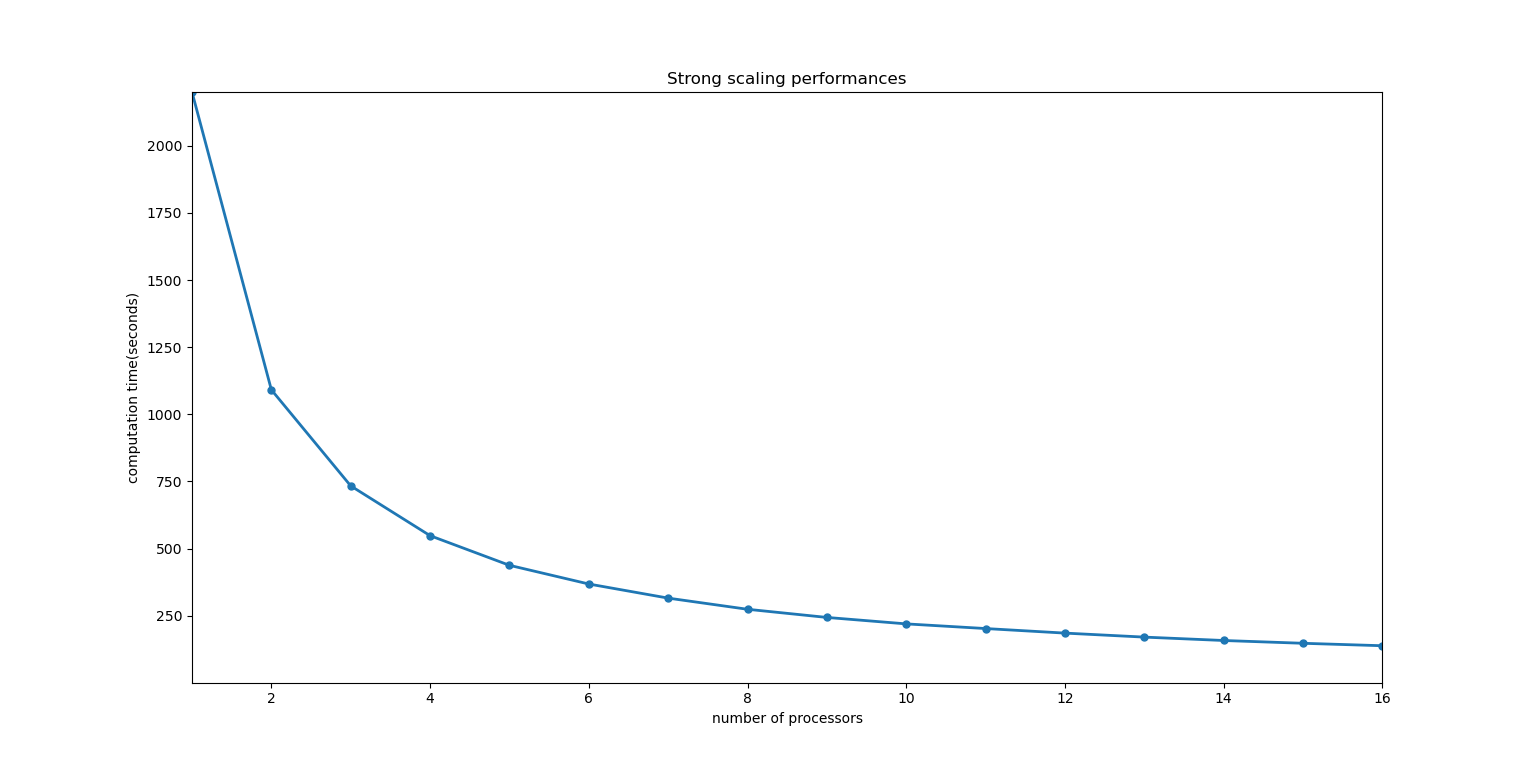
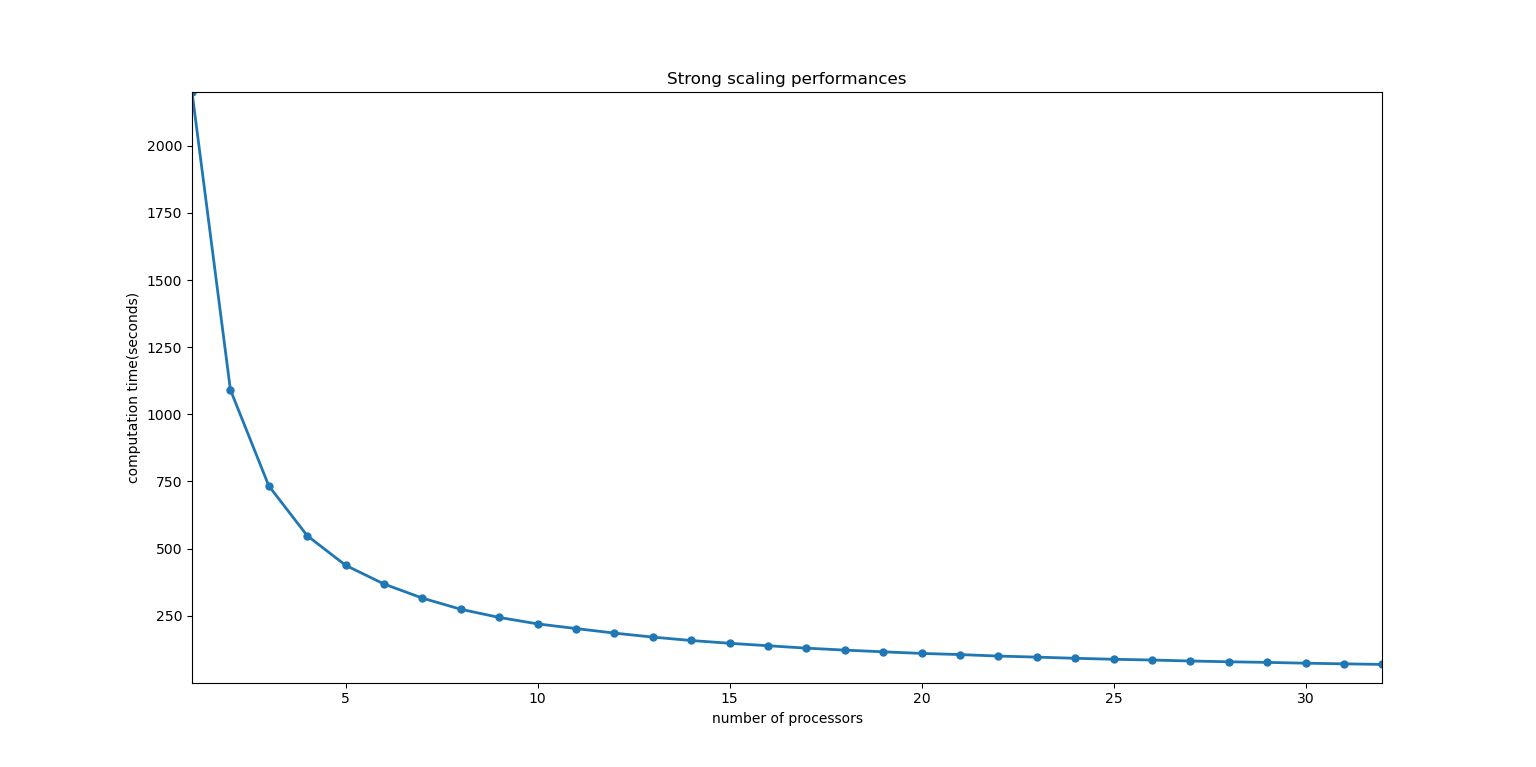
updating performances up to 32 processors

diff --git a/README.md b/README.md
@@ -206,9 +206,13 @@ Possiamo ora procedere con la descrizione dei risultati dati dalla misurazione d
 
 ### Strong Scaling
 
-In questo tipo di misurazione la taglia del problema (il numero di particelle) resta fissata ma il numero di processori aumenta (da 1 a number-of-vcp x number-of-instances). 
+In questo tipo di misurazione la taglia del problema (il numero di particelle) resta fissata ma il numero di processori aumenta. 
 
-**Quindi usando un'istanza EC2 di AWS di tipo *t2.large* che possiede 2 vCPU il cluster su cui verrà effettuato il benchmarking sarà formato da 8 istanze ognuna avente 2 vCPU quindi i processori possono aumentare da 1 a 16.**
+![](./benchmarking_screenshots/instances_32.png)
+
+**Per il testi di strong scaling il range di aumento del numero dei processori è stato fissato da 1 a 32 poichè 32 è il massimo numero di core che è possibile usare con un account AWS Educate**
+
+![](./benchmarking_screenshots/cpu_32_limit.png)
 
 |   P	|   N	|   Avg Iteration Time (seconds)	|   Total Computation Time (seconds)	|
 |:-:	|:-:	|:-:	|:-:	|
@@ -228,10 +232,26 @@ In questo tipo di misurazione la taglia del problema (il numero di particelle) r
 |   14	|  100 000 	|   15.787466	|   157.874664 	|
 |   15	|  100 000 	|   14.750758	|   147.507577 	|
 |   16	|  100 000 	|   13.837183	|   138.371826 	|
+|   17	|  100 000 	|   12.937212	|   129.372124	|
+|   18	|  100 000 	|   12.210964	|   122.109644 	|
+|   19	|  100 000 	|   11.575181	|   115.751814  |
+|   20	|  100 000 	|   10.975263	|   109.752627 	|
+|   21	|  100 000 	|   10.547308	|   105.473079  |
+|   22	|  100 000 	|   9.991014	|   99.910142   |
+|   23	|  100 000 	|   9.599492	|   95.994917   |
+|   24	|  100 000 	|   9.162451	|   91.624507   |
+|   25	|  100 000 	|   8.797949	|   87.979485   |
+|   26	|  100 000 	|   8.514978	|   85.149779   |
+|   27	|  100 000 	|   8.152149	|   81.521492   |
+|   28	|  100 000 	|   7.863964	|   78.639643   |
+|   29	|  100 000 	|   7.639826	|   76.398257   |
+|   30	|  100 000 	|   7.336128	|   73.361283   |
+|   31	|  100 000 	|   7.095153	|   70.951534   |
+|   32	|  100 000 	|   6.880448	|   68.804478   |
 
 ![](./benchmarking_screenshots/strong_scaling_screenshots/strong_scaling_graph.png)
 
-Dalle misurazioni effettuate per verificare la **strong scalability** abbiamo notato come su una stessa taglia di input, l'aggiunta di processori ha migliorato il tempo di esecuzione, ma ovviamente per ogni processore aggiunto il miglioramento non è stato costante poichè più processori partecipavano alla computazione, maggiore era l'overhead prodotto dalla comunicazione di questi. Nel nostro test fino a 16 processori il tempo di esecuzione è sempre diminuito ma abbiamo cominciato ad intravedere un punto di stop al miglioramento verso la fine, infatti con il passaggio da 15 a 16 processori il tempo di computazione è stato ridotto minimamente. Se fossimo andati avanti, aggiungendo altri processori saremmo arrivati ad un punto in cui il tempo di esecuzione non diminuiva più, ma cominciava ad aumentare poichè l'overhead prodotto era maggiore del miglioramento di prestazioni.
+Dalle misurazioni effettuate per verificare la **strong scalability** abbiamo notato come su una stessa taglia di input, l'aggiunta di processori ha migliorato il tempo di esecuzione, ma ovviamente per ogni processore aggiunto il miglioramento non è stato costante poichè più processori partecipavano alla computazione, maggiore era l'overhead prodotto dalla comunicazione di questi. Nel nostro test fino a 32 processori il tempo di esecuzione è sempre diminuito ma più il numero di processori aumentava più il miglioramento delle prestazioni diminuiva. Se fossimo andati avanti, aggiungendo altri processori saremmo arrivati ad un punto in cui il tempo di esecuzione non diminuiva più, ma cominciava ad aumentare poichè l'overhead prodotto era maggiore del miglioramento di prestazioni.
 
 ### Weak Scaling
 
@@ -279,7 +299,7 @@ dove :
 |:-:	|:-:	|:-:	|
 |   1	|  100 000	|  1.0 |
 |   2	|  100 000 	|  2.0 |
-|   3	|  100 000	|  3.0	|
+|   3	|  100 000	|  3.0 |
 |   4	|  100 000 	|  4.0 |
 |   5	|  100 000 	|  5.0 |
 |   6	|  100 000 	|  5.9 |
@@ -289,19 +309,37 @@ dove :
 |   10	|  100 000 	|  10.0 |
 |   11	|  100 000 	|  10.9 |
 |   12	|  100 000 	|  11.9 |
-|   13	|  100 000 	|  12.8 |
-|   14	|  100 000 	|  13.8 |
-|   15	|  100 000 	|  14.8 |
-|   16	|  100 000 	|  15.8 |
+|   13	|  100 000 	|  12.9 |
+|   14	|  100 000 	|  13.9 |
+|   15	|  100 000 	|  14.9 |
+|   16	|  100 000 	|  15.9 |
+|   17	|  100 000 	|  17.0 |
+|   18	|  100 000 	|  18.0 |
+|   19	|  100 000 	|  19.0 |
+|   20	|  100 000 	|  20.0 |
+|   21	|  100 000 	|  20.9 |
+|   22	|  100 000 	|  22.0 |
+|   23	|  100 000 	|  22.9 |
+|   24	|  100 000 	|  24.0 |
+|   25	|  100 000 	|  25.0 |
+|   26	|  100 000 	|  25.8 |
+|   27	|  100 000 	|  27.0 |
+|   28	|  100 000 	|  28.0 |
+|   29	|  100 000 	|  28.8 |
+|   30	|  100 000 	|  30.0 |
+|   31	|  100 000 	|  31.0 |
+|   32	|  100 000 	|  32.0 |
 
-![](./benchmarking_screenshots/speedup.png)
+![](./benchmarking_screenshots/speedup_32.png)
 
 Abbiamo notato come, sorprendentemente, lo **speedup** è sempre stato molto vicino all'ideale (speedup lineare), questo perchè lo speedup è calcolato in funzione di quante operazioni riusciamo ad eseguire in parallelo e non dal numero di processori coinvolti nel calcolo. Nel nostro caso abbiamo avuto ottimi risultati poichè, tranne per alcune istruzioni in più eseguite dal processore MASTER, tutte le istruzione del programma sono state eseguite in parallelo.
+
+Inoltre la comunicazione tra i processori è effettuata interamente utilizzando funzioni di comunicazione collettiva della libreria MPI e questo è un altro fattore che migliora le prestazioni poichè fa in modo che qualsiasi nodo con le informazioni ricevute partecipi all'invio delle informazioni ad altri nodi.
 
 
 # Conclusioni
 
-Dalle considerazione effettuate sulla strong scalability, weak scalability e sullo speedup possiamo concludere che abbiamo raggiunto buoni risultati e notato evidenti miglioramenti con l'aggiunta di altri processori. Infatti essendo un problema di complessità quadratica il tempo di esecuzione sequenziale era davvero elevato (su taglia di input 100 000 il tempo totale di esecuzione era circa 37 minuti). Impiegando 16 processori in parallelo il tempo totale di computazione è diminuito fino a circa 2 minuti, notando così la potenza di una computazione parallela.
+Dalle considerazione effettuate sulla strong scalability, weak scalability e sullo speedup possiamo concludere che abbiamo raggiunto buoni risultati e notato evidenti miglioramenti con l'aggiunta di altri processori. Infatti essendo un problema di complessità quadratica il tempo di esecuzione sequenziale era davvero elevato (su taglia di input 100 000 il tempo totale di esecuzione era circa 37 minuti). Impiegando 32 processori in parallelo il tempo totale di computazione è diminuito fino a circa 1 minuto, notando così la potenza di una computazione parallela.
 
 
 
